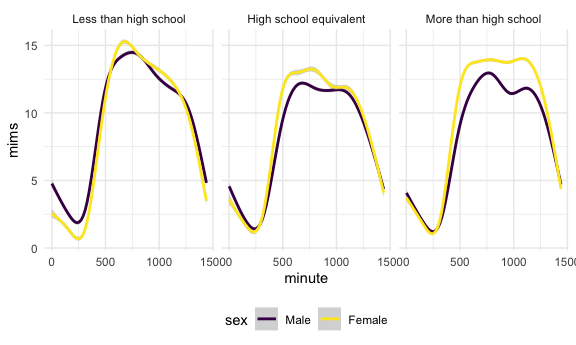
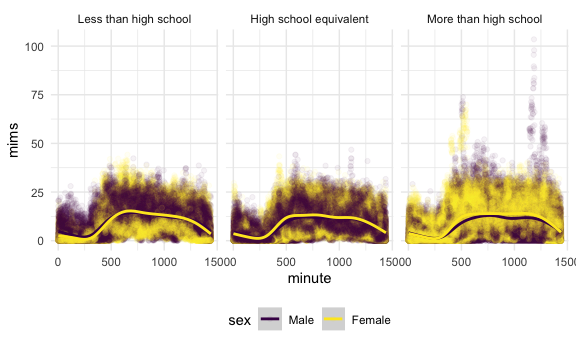
finishing touches

diff --git a/p8105_hw3_asb2338.md b/p8105_hw3_asb2338.md
@@ -217,10 +217,11 @@ nhanes |>
 
 The education category with the most males and the most females is more
 than high school. There are slightly more females in the less than high
-school category than males. People with more than a high school
-education tend to be younger those with less than high school or high
-school equivalent. However, the distributions of the ages for all of the
-age categories do overlap.
+school category than males.
+
+People with more than a high school education tend to be younger than
+those with less than high school or high school equivalent. However, the
+distributions of the ages for all of the age categories do overlap.
 
 ``` r
 nhanes = 
@@ -250,8 +251,8 @@ than high school categories than males.
 ``` r
 nhanes |> 
   ggplot(aes(x = minute, y = mims, color = sex))+
-#  geom_point(alpha = .1)+
-  geom_smooth() +
+  geom_point(alpha=.05)+
+    geom_smooth() +
   facet_grid(.~education)
 ```
 
@@ -385,3 +386,8 @@ citi_bike_df |>
 ```
 
 <img src="p8105_hw3_asb2338_files/figure-gfm/unnamed-chunk-16-1.png" alt="" width="90%" />
+All of the distributions are right-skewed. The combination of month,
+membership status, and bike type that resulted in the highest ride
+duration was July, member, and electric bike. The combination of month,
+membership status, and bike type that resulted in the lowest ride
+duration was January, casual, and classic bike.
